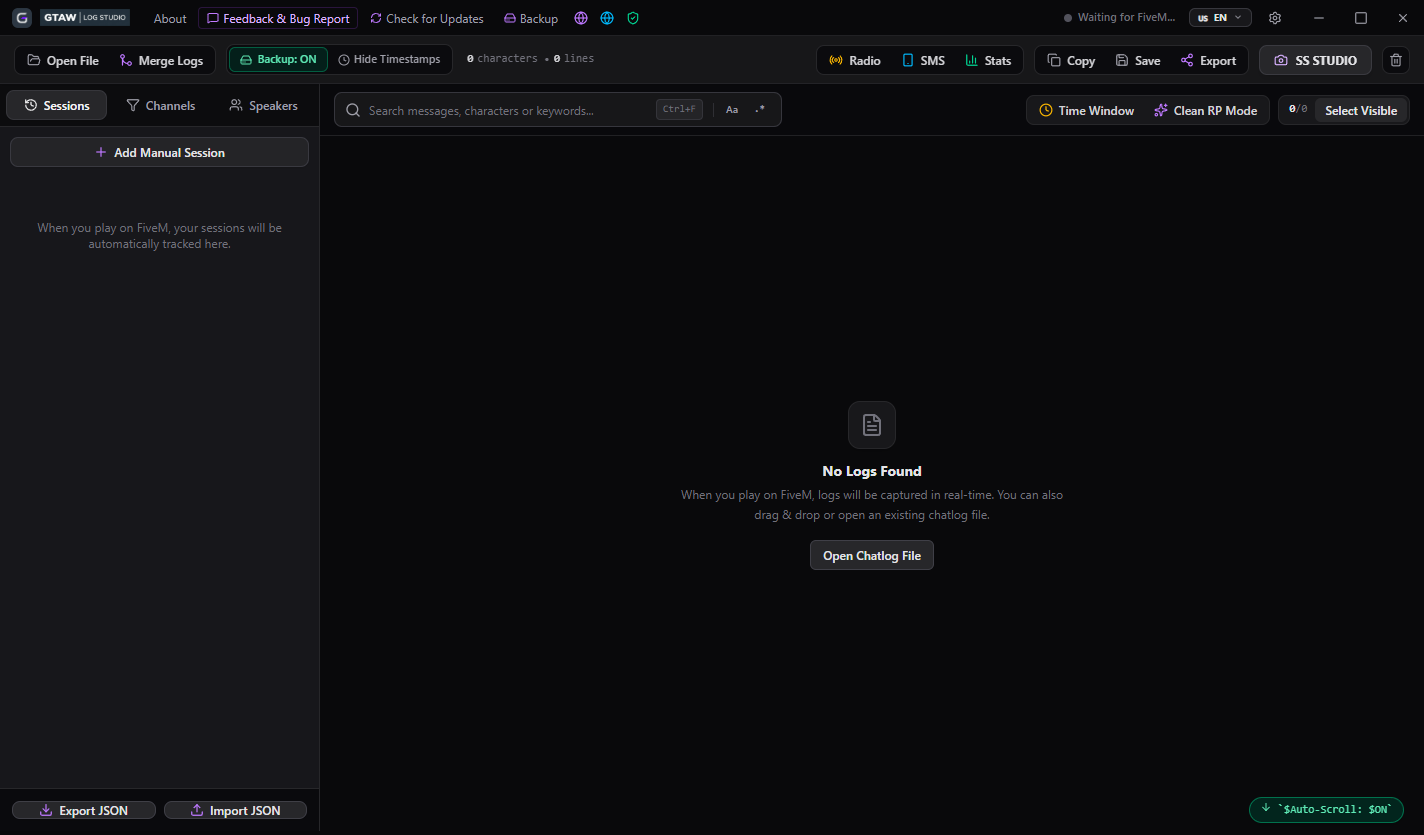
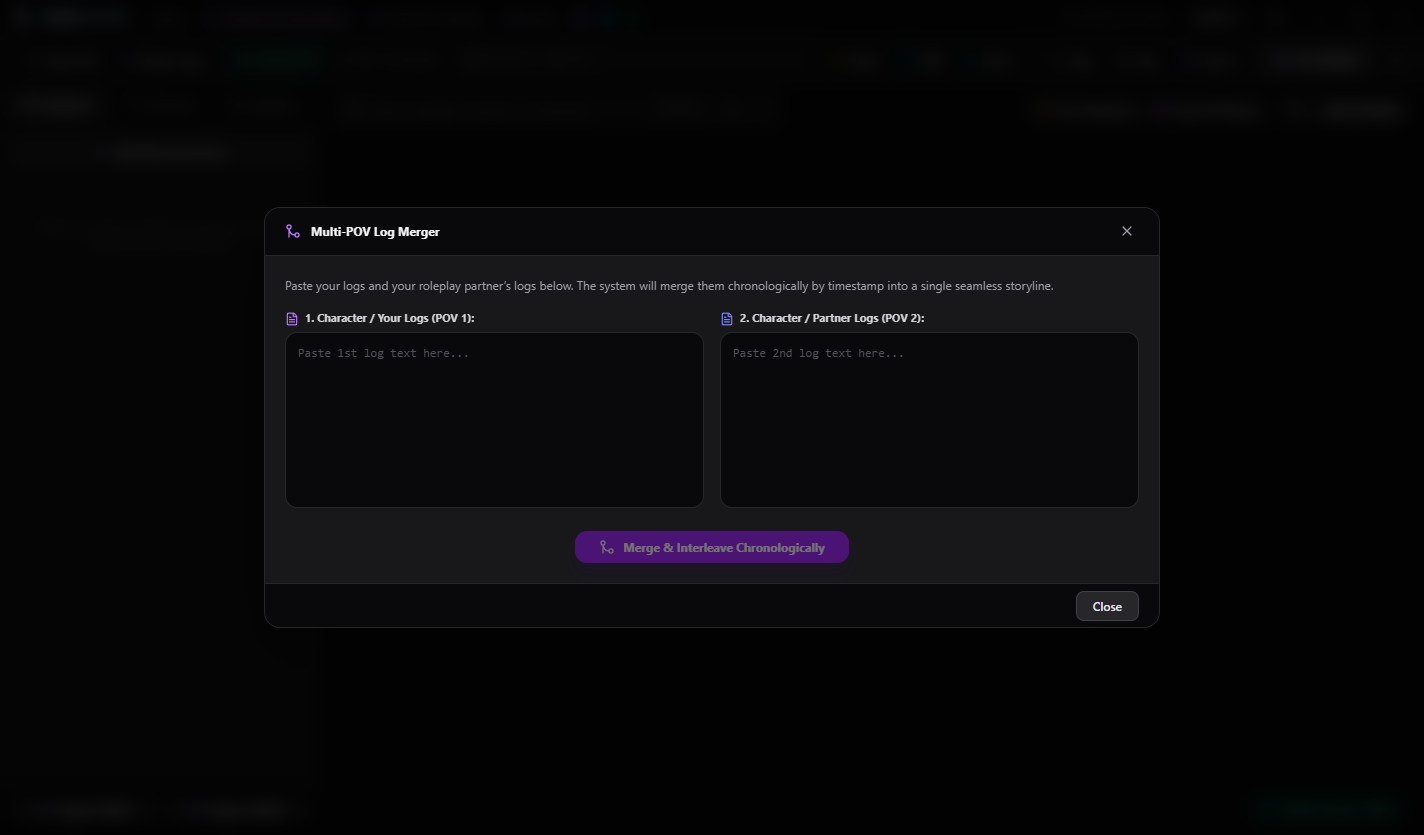
docs: refresh SS Studio and Keyer screenshots with realistic roleplay backgrounds and active text layers

diff --git a/src/components/ssmaker/BlackScreenKeyer.tsx b/src/components/ssmaker/BlackScreenKeyer.tsx
@@ -171,6 +171,7 @@ export const BlackScreenKeyer: React.FC<BlackScreenKeyerProps> = ({
           ref={fileInputRef}
           type="file"
           accept="image/*"
+          data-testid="keyer-file-input"
           className="hidden"
           onChange={handleImageUpload}
         />

diff --git a/src/components/ssmaker/ImageOverlay.tsx b/src/components/ssmaker/ImageOverlay.tsx
@@ -314,6 +314,7 @@ export const ImageOverlay: React.FC<ImageOverlayProps> = ({
           ref={fileInputRef}
           type="file"
           accept="image/*"
+          data-testid="overlay-file-input"
           className="hidden"
           onChange={handleImageUpload}
         />
